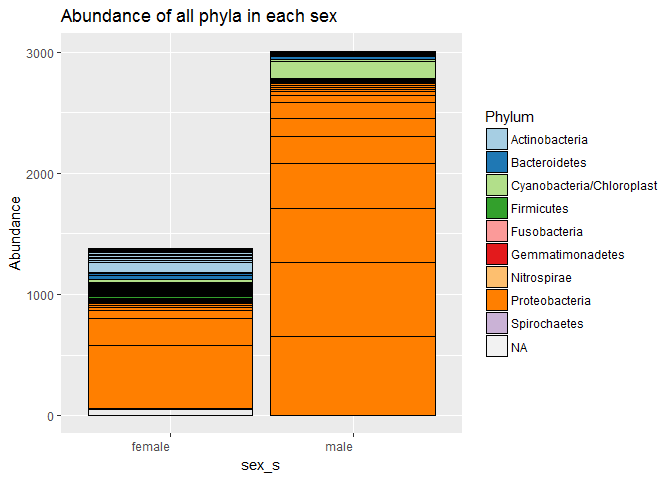
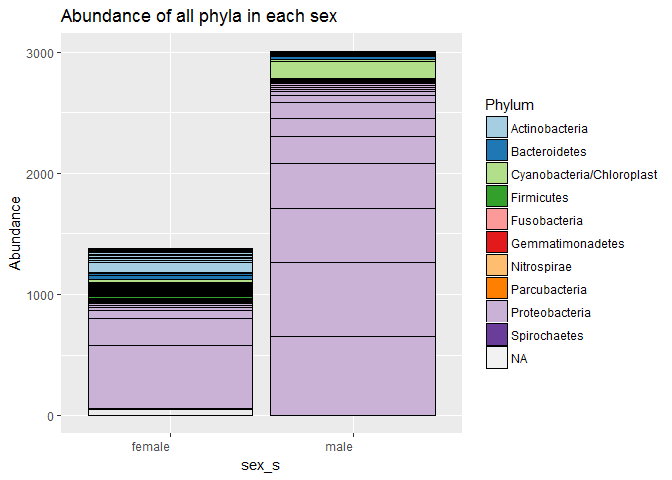
Correct minor musinderstanding about figure 4

Changed region(s): [[0.4062, 0.1562, 0.6562, 0.875], [0.7188, 0.1875, 1.0, 0.7812], [0.125, 0.625, 0.375, 0.875]]

diff --git a/Analysis_Report_01_amplicons.md b/Analysis_Report_01_amplicons.md
@@ -37,67 +37,26 @@ Results
 
 # load general-use packages
 library("dplyr")
-```
-
-    ## Warning: package 'dplyr' was built under R version 3.4.2
-
-``` r
 library("tidyr")
-```
-
-    ## Warning: package 'tidyr' was built under R version 3.4.2
-
-``` r
 library("knitr")
-```
-
-    ## Warning: package 'knitr' was built under R version 3.4.2
-
-``` r
 library("ggplot2")
-```
-
-    ## Warning: package 'ggplot2' was built under R version 3.4.2
-
-``` r
 library("vegan")
-```
-
-    ## Warning: package 'vegan' was built under R version 3.4.2
-
-``` r
 library("RColorBrewer")
-```
 
-    ## Warning: package 'RColorBrewer' was built under R version 3.4.1
-
-``` r
 # this package allows for the easy inclusion of literature citations in our Rmd
 # more info here: https://github.com/crsh/citr
 # and here:
 # http://rmarkdown.rstudio.com/authoring_bibliographies_and_citations.html
 library("citr")
-```
 
-    ## Warning: package 'citr' was built under R version 3.4.2
-
-``` r
 # These are the primary packages well use to clean and analyze the data
 # this package needs to be installed from bioconductor -- it's not on CRAN
 # see info here: https://benjjneb.github.io/dada2/dada-installation.html
 library("dada2")
-```
 
-    ## Warning: package 'Rcpp' was built under R version 3.4.2
-
-``` r
 # This to export a fasta of our final denoised sequence variants
 library("seqinr")
-```
 
-    ## Warning: package 'seqinr' was built under R version 3.4.2
-
-``` r
 # To install this you have to install from GitHub
 # See more info here: https://github.com/leffj/mctoolsr
 # run this -- install.packages("devtools")
@@ -676,7 +635,7 @@ unname(taxa)
     ##  [56,] "Bacteria" "Actinobacteria"            "Actinobacteria"     
     ##  [57,] "Bacteria" "Firmicutes"                "Clostridia"         
     ##  [58,] "Bacteria" "Proteobacteria"            "Gammaproteobacteria"
-    ##  [59,] "Bacteria" NA                          NA                   
+    ##  [59,] "Bacteria" "Proteobacteria"            NA                   
     ##  [60,] "Bacteria" "Firmicutes"                "Clostridia"         
     ##  [61,] "Bacteria" "Firmicutes"                "Clostridia"         
     ##  [62,] "Bacteria" "Proteobacteria"            "Alphaproteobacteria"
@@ -783,7 +742,7 @@ unname(taxa)
     ## [163,] "Bacteria" "Firmicutes"                "Bacilli"            
     ## [164,] "Bacteria" "Firmicutes"                "Clostridia"         
     ## [165,] "Bacteria" "Nitrospirae"               "Nitrospira"         
-    ## [166,] "Bacteria" NA                          NA                   
+    ## [166,] "Bacteria" "Parcubacteria"             NA                   
     ## [167,] "Bacteria" "Firmicutes"                "Bacilli"            
     ## [168,] "Bacteria" "Proteobacteria"            "Betaproteobacteria" 
     ## [169,] "Bacteria" "Bacteroidetes"             "Sphingobacteriia"   
@@ -937,7 +896,7 @@ unname(taxa)
     ## [140,] "Erysipelotrichales" "Erysipelotrichaceae" 
     ## [141,] "Actinomycetales"    "Mycobacteriaceae"    
     ## [142,] "Actinomycetales"    "Microbacteriaceae"   
-    ## [143,] "Clostridiales"      NA                    
+    ## [143,] "Clostridiales"      "Ruminococcaceae"     
     ## [144,] "Actinomycetales"    "Propionibacteriaceae"
     ## [145,] "Clostridiales"      "Ruminococcaceae"     
     ## [146,] "Actinomycetales"    "Nocardioidaceae"     
@@ -945,7 +904,7 @@ unname(taxa)
     ## [148,] "Sphingobacteriales" "Chitinophagaceae"    
     ## [149,] "Clostridiales"      "Ruminococcaceae"     
     ## [150,] "Sphingomonadales"   "Sphingomonadaceae"   
-    ## [151,] "Actinomycetales"    NA                    
+    ## [151,] "Actinomycetales"    "Nocardiaceae"        
     ## [152,] "Clostridiales"      "Clostridiaceae_1"    
     ## [153,] "Bacteroidales"      "Prevotellaceae"      
     ## [154,] NA                   NA                    
@@ -967,7 +926,7 @@ unname(taxa)
     ## [170,] "Actinomycetales"    "Propionibacteriaceae"
     ## [171,] "Rhizobiales"        "Bradyrhizobiaceae"   
     ## [172,] "Clostridiales"      NA                    
-    ## [173,] "Clostridiales"      "Catabacteriaceae"    
+    ## [173,] "Clostridiales"      NA                    
     ## [174,] "Actinomycetales"    "Nocardiaceae"        
     ## [175,] "Pasteurellales"     "Pasteurellaceae"     
     ## [176,] "Actinomycetales"    "Microbacteriaceae"   
@@ -993,8 +952,8 @@ unname(taxa)
     ##  [19,] NA                         
     ##  [20,] "Diaphorobacter"           
     ##  [21,] NA                         
-    ##  [22,] "Intestinimonas"           
-    ##  [23,] "Clostridium_IV"           
+    ##  [22,] NA                         
+    ##  [23,] NA                         
     ##  [24,] NA                         
     ##  [25,] "Pelomonas"                
     ##  [26,] NA                         
@@ -1002,7 +961,7 @@ unname(taxa)
     ##  [28,] "Streptomyces"             
     ##  [29,] NA                         
     ##  [30,] "Sphingobium"              
-    ##  [31,] NA                         
+    ##  [31,] "Marmoricola"              
     ##  [32,] "Streptomyces"             
     ##  [33,] "Salinibacterium"          
     ##  [34,] "Streptomyces"             
@@ -1019,7 +978,7 @@ unname(taxa)
     ##  [45,] "Pseudomonas"              
     ##  [46,] "Streptomyces"             
     ##  [47,] NA                         
-    ##  [48,] NA                         
+    ##  [48,] "Pelomonas"                
     ##  [49,] "Microbacterium"           
     ##  [50,] "Mycobacterium"            
     ##  [51,] "Marmoricola"              
@@ -1036,7 +995,7 @@ unname(taxa)
     ##  [62,] "Microvirga"               
     ##  [63,] NA                         
     ##  [64,] "Arthrobacter"             
-    ##  [65,] "Marmoricola"              
+    ##  [65,] NA                         
     ##  [66,] "Microbacterium"           
     ##  [67,] "Sphingomonas"             
     ##  [68,] NA                         
@@ -1059,7 +1018,7 @@ unname(taxa)
     ##  [85,] "Massilia"                 
     ##  [86,] "Bartonella"               
     ##  [87,] NA                         
-    ##  [88,] "Ruminococcus"             
+    ##  [88,] NA                         
     ##  [89,] "Pseudomonas"              
     ##  [90,] "Azonexus"                 
     ##  [91,] "Gemmatimonas"             
@@ -1111,7 +1070,7 @@ unname(taxa)
     ## [137,] "Stappia"                  
     ## [138,] NA                         
     ## [139,] "Massilia"                 
-    ## [140,] NA                         
+    ## [140,] "Erysipelothrix"           
     ## [141,] "Mycobacterium"            
     ## [142,] "Microbacterium"           
     ## [143,] NA                         
@@ -1141,12 +1100,12 @@ unname(taxa)
     ## [167,] "Paenibacillus"            
     ## [168,] NA                         
     ## [169,] "Flavitalea"               
-    ## [170,] "Tessaracoccus"            
+    ## [170,] NA                         
     ## [171,] "Rhodopseudomonas"         
     ## [172,] NA                         
-    ## [173,] "Catabacter"               
+    ## [173,] NA                         
     ## [174,] NA                         
-    ## [175,] NA                         
+    ## [175,] "Nicoletella"              
     ## [176,] "Agrococcus"
 
 ``` r
@@ -1357,7 +1316,7 @@ Of all the phyla present on human test subjects, the most abundant in both male 
 
 While *proteobacteria* is present in nearly every individual, most of the less-abundant phyla are only found in one or two of the individuals (fig. 4). That said, there are several phyla that have small abundance in each individual, but a larger abundance in their respective sex as a whole. For example, *actinobacteria* is the second most common phylum in female hands (fig. 3), but none of the female hands or mice have a particularly large abundance of it (fig. 4). This is unsurprising, as *actinobacteria* is a phylum of relatively common soil bacterium that one might expect to find in the environment, but would not necessarily thrive on a human hand. The *firmicutes* phylum shows a similar abundance pattern in both sexes, where it is present in small quantities on nearly every individual's hand (fig. 4). Like *proteobacteria*, *firmicutes* contains a wide variety of species, from pathogens to common gut symbiotes. The species found on the subjects' hands were likely from their gut microbiome, however, as *firmicutes* is one of the most common phyla in the human gut microbiome. (Ley *et al.*, 2006) Therefore, it is unsurprising to find this phylum on human hands, as is known to exist in other parts of the body.
 
-There does not appear to be a phylum that is prominently found on mice, but absent on human hands (fig. 4). However, the opposite is not true in all cases. For example, while the *bacteroidetes* phylum was found in great abundance on several female hands, neither of their respective mice nor any of the other mice show a great abundance of this phylum (fig. 4). Most individuals have patterns of *bacteriodetes* abundance comparable to *firmicutes*, with a small amount present in each individual. Again, this makes sense because *bacteriodetes*, together with *firmicutes*, make up around 98% of the mammalian gut microbiome. (Ley *et al.*, 2006) However, two female individuals show a much larger abundance of it on their hands, but not on their respective mice. It makes sense that *bacteroidetes* was more common on female hands than male hands, given that it is known to be part of the placenta microbiome, and its prominence on these womens' hands could indicate several thins about their physiological state (Mor and Kwon, 2015). For instance, they could be pregnant or in a different phase of their menstrual cycle from the other female test subjects. However, this would not explain why it was so abundant on their hands, yet absent on the computer mice they used.
+There does not appear to be a phylum that is prominently found on human hands, but absent on mice (fig. 4). However, the opposite is not true in all cases. For example, while the *bacteroidetes* phylum was found in great abundance on several female mice, neither of their respective hands nor any of the other hands show a great abundance of this phylum (fig. 4). Most individuals have patterns of *bacteriodetes* abundance comparable to *firmicutes*, with a small amount present in each individual. Again, this makes sense because *bacteriodetes*, together with *firmicutes*, make up around 98% of the mammalian gut microbiome. (Ley *et al.*, 2006) However, two female individuals show a much larger abundance of it on their mice, but not on their respective hands. It makes sense that *bacteroidetes* was more common on female subjects than male subjects, given that it is known to be part of the placenta microbiome, and its prominence on these womens' hands could indicate several thins about their physiological state (Mor and Kwon, 2015). For instance, they could be pregnant or in a different phase of their menstrual cycle from the other female test subjects. However, this would not explain why it was so abundant on their mice, yet absent on their actual hands.
 
 There also appears to be a difference in the amount of diversity between male and female hands and the objects they have touched, as well. Whereas all but one female has more diversity on her hand than on the mouse she touched, the opposite is true in males (fig. 5). While this could be due to the generally low diversity in male hands, this seems unlikely because the diversity on males' mice is not simply higher than the diversity of male hands, but also higher than the diversity in females' mice (fig 5). This could be due to the fact that *proteobacteria* is less abundant in male computer mice than it is in male hands (fig. 4). One possible explanation for why *proteobacteria* is more abundant on male hands than male mice is that the environment of the skin is favorable for their growth. If this is true, then the only *proteobacteria* found on mice would be there because it rubbed off from a human hand, but those on the human hand might be the progeny of the original bacteria that landed and proliferated there.
 
